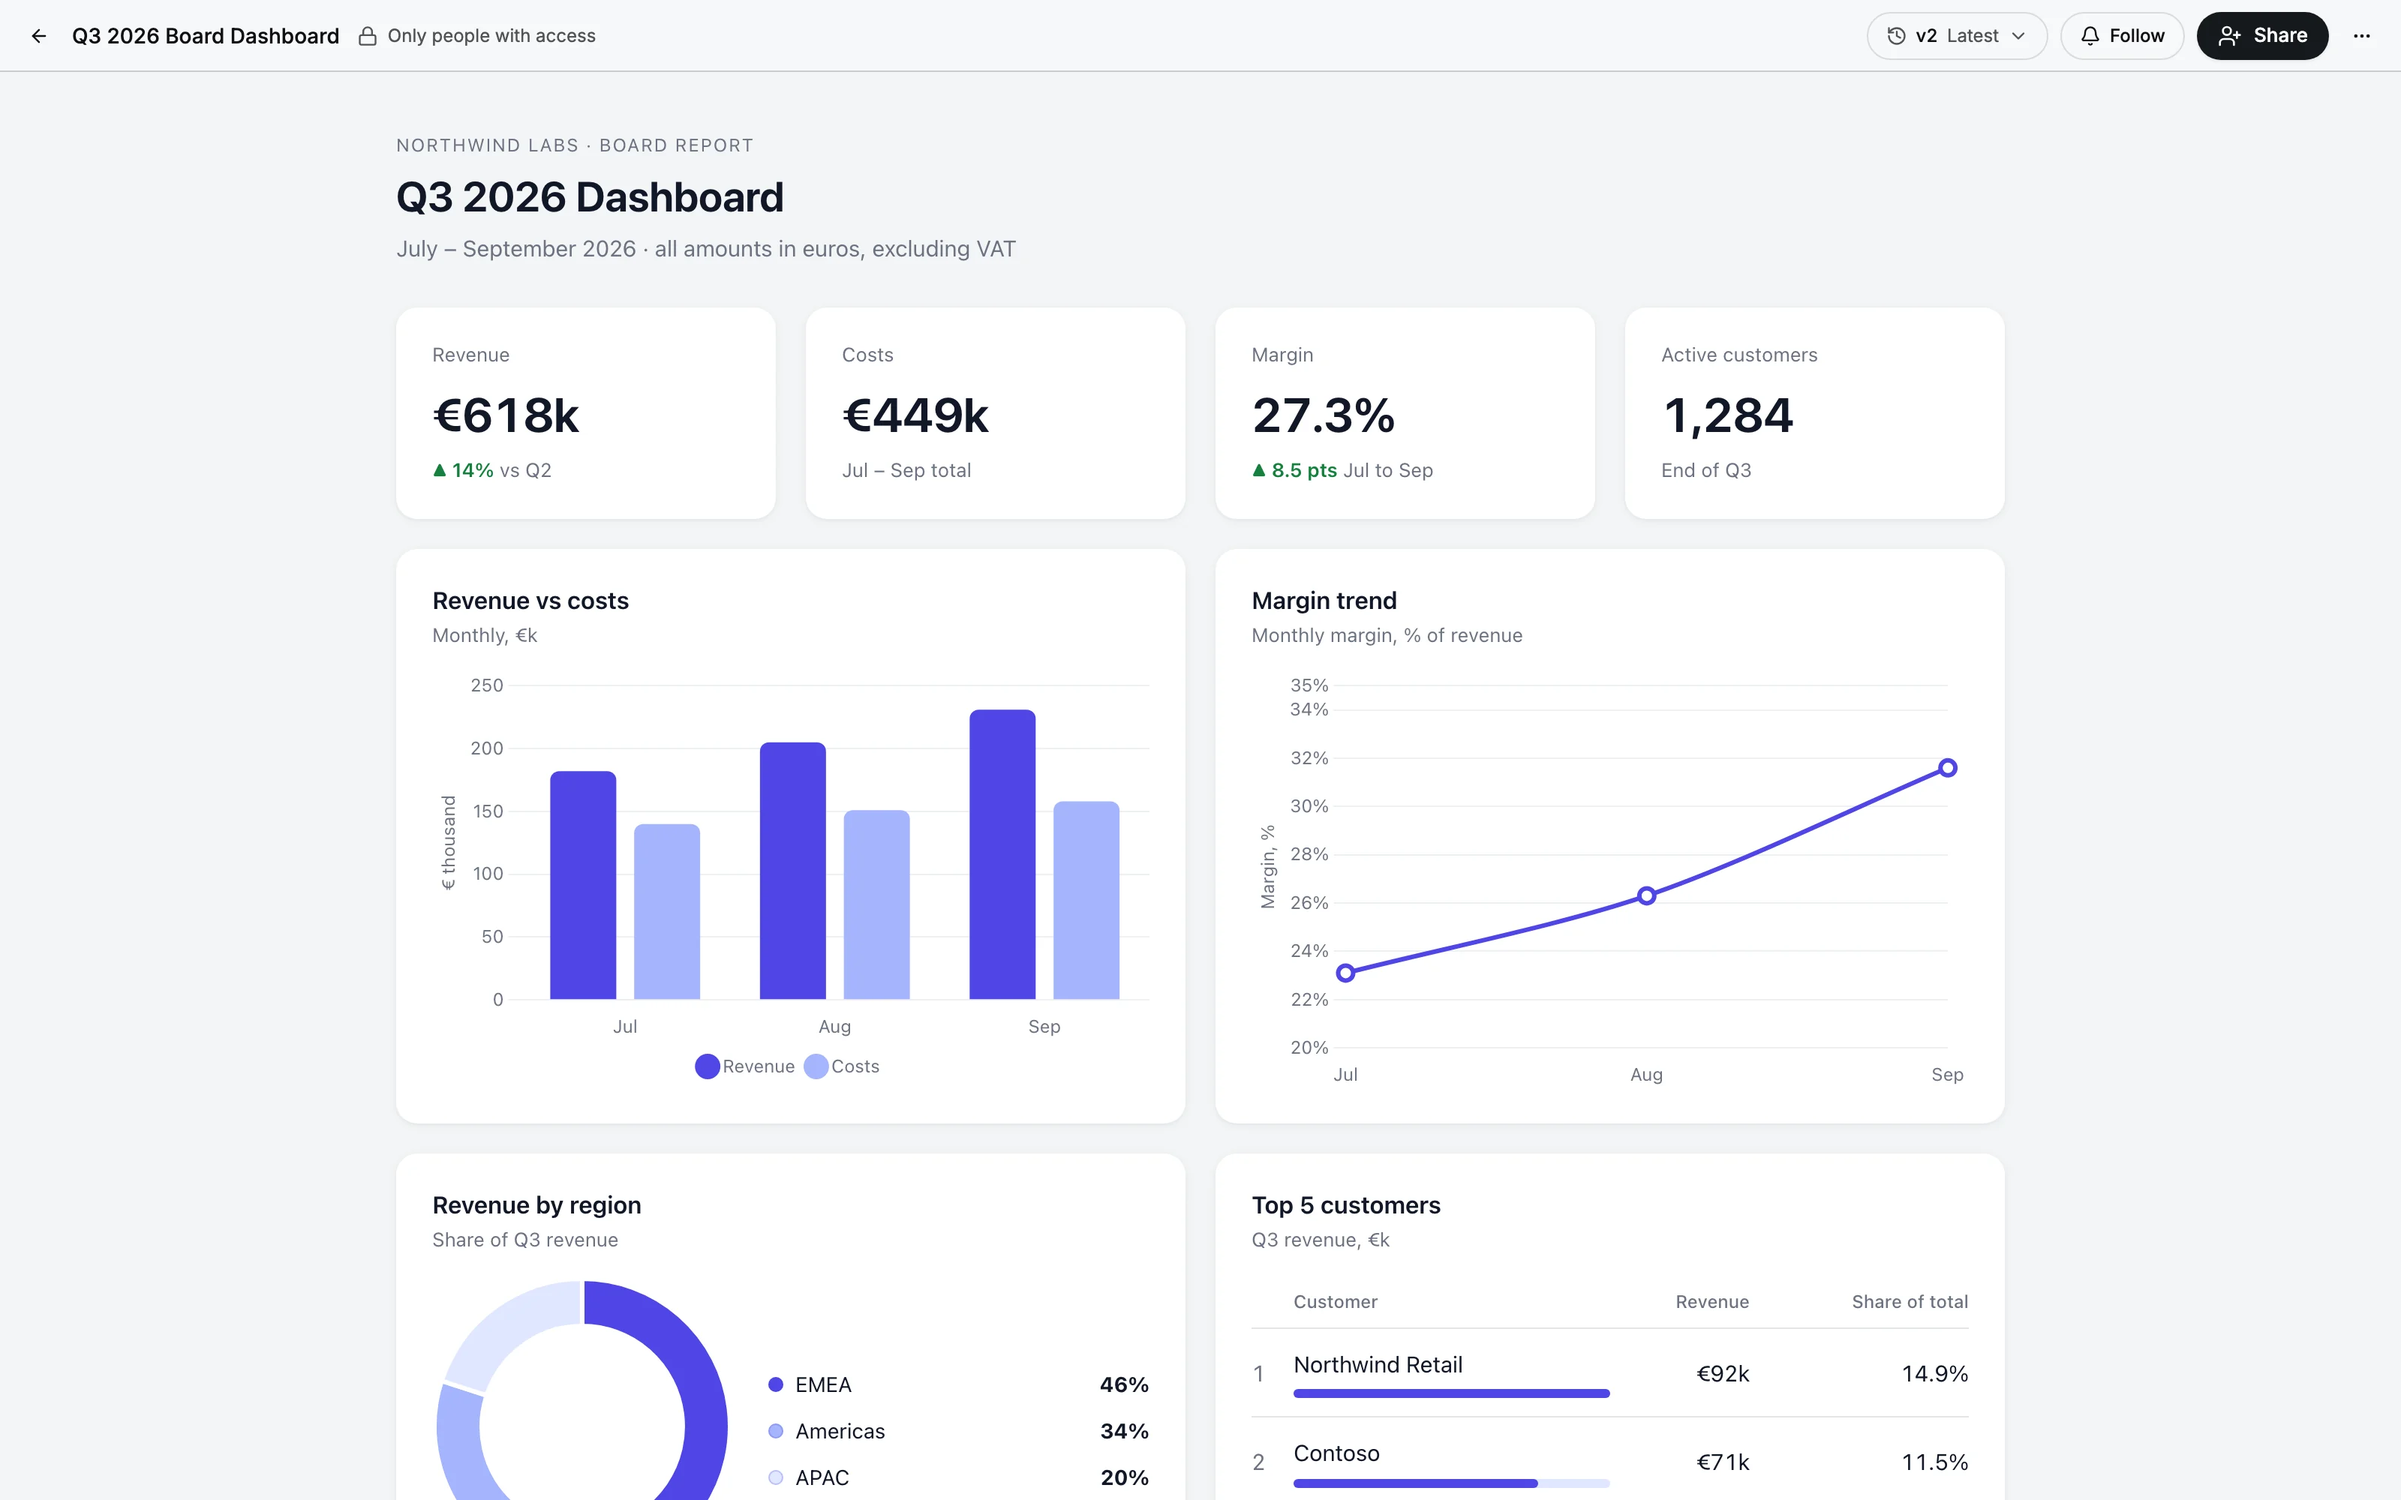
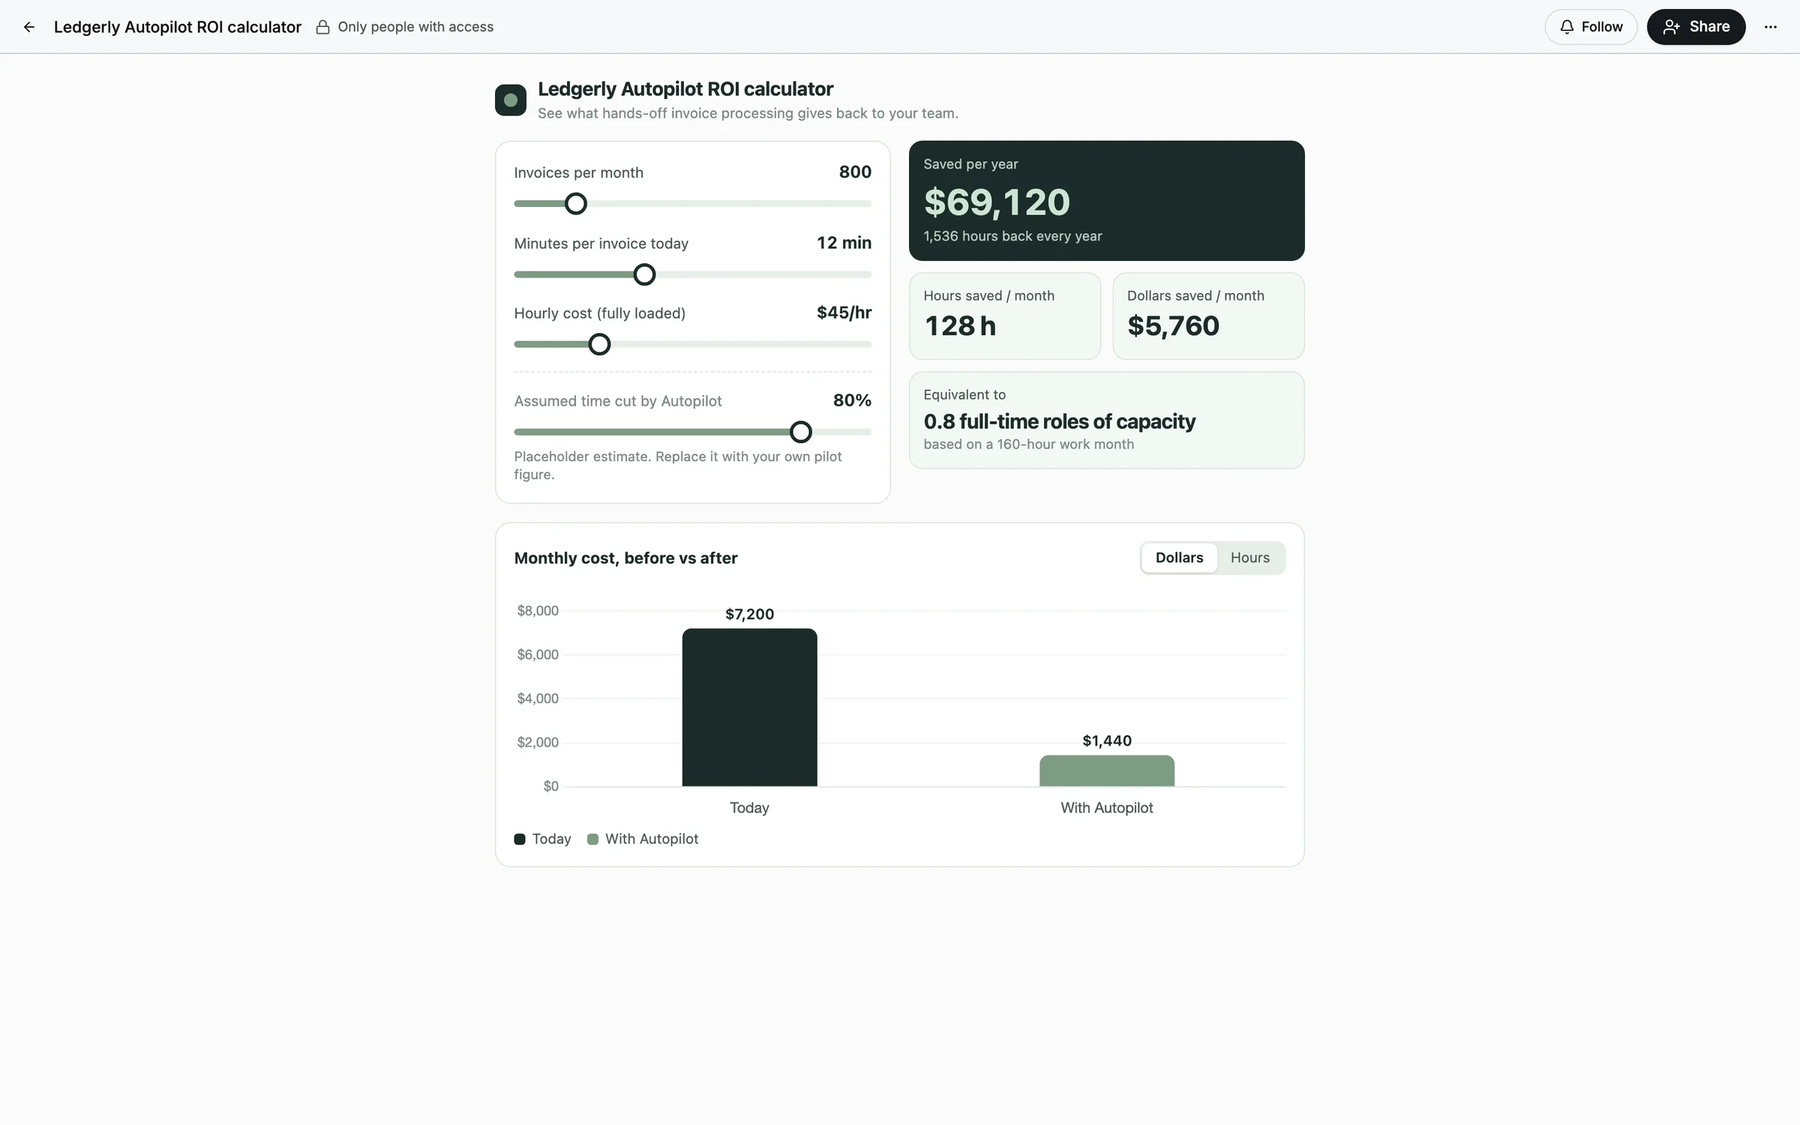
feat: retake the product tour in the US demo organization
The team, build-and-test and apps tabs showed an admin account and
euros. They now show a pricing brief from two agents in dollars, the
Finance Analyst's test chart in dollars and the ROI calculator saved
as an app.

diff --git a/src/content.ts b/src/content.ts
@@ -101,9 +101,9 @@ export const showcase: readonly Showcase[] = [
     title: "Agents that work as a team",
     body: "A lead agent hands parts of a task to colleagues and writes up what they found. You see who it asked, and what each one said.",
     image: "/screens/highlight-subagents.webp",
-    alt: "A Chief of Staff agent’s brief for a board call, written from what Support Desk and Sales Researcher answered, with the two agents named under it",
-    width: 1600,
-    height: 1000,
+    alt: "A Chief of Staff agent’s pricing review brief, written from what Sales Researcher and Finance Analyst answered: Ramp and Bill.com pricing in dollars and three bullets for the meeting",
+    width: 2400,
+    height: 1500,
     icon: "users",
     more: { label: "How subagents work", href: `${DOCS}/reference/capabilities/` },
   },
@@ -126,8 +126,8 @@ export const showcase: readonly Showcase[] = [
     body: "Switch tools on from illustrated cards, then give the draft a real job in the test chat beside them, before anyone else sees the agent.",
     image: "/screens/highlight-builder-test.webp",
     alt: "The Finance Analyst’s toolbox with isometric capability cards, and its test chat drawing a chart of Q3 revenue against costs",
-    width: 3200,
-    height: 2000,
+    width: 2400,
+    height: 1500,
     icon: "flask",
     more: { label: "Build your first agent", href: `${DOCS}/first-agent/` },
   },
@@ -135,11 +135,11 @@ export const showcase: readonly Showcase[] = [
     id: "apps",
     tab: "Apps",
     title: "Apps, not just answers",
-    body: "An agent publishes a dashboard or a report as a page with a stable link and versions. Choose who can open it; updates keep the link.",
+    body: "An agent publishes a dashboard, a calculator or a report as a page with a stable link and versions. Choose who can open it; updates keep the link.",
     image: "/screens/highlight-app.webp",
-    alt: "The Q3 2026 board dashboard a Finance Analyst published from chat as an app: KPI cards, revenue against costs, the margin trend",
-    width: 3200,
-    height: 2000,
+    alt: "An ROI calculator drawn in chat and saved as an app with its own link: sliders for invoices and hourly cost, $69,120 saved per year, monthly cost before and after",
+    width: 2400,
+    height: 1500,
     icon: "layout",
     more: { label: "Share an app", href: `${DOCS}/artifacts/` },
   },
